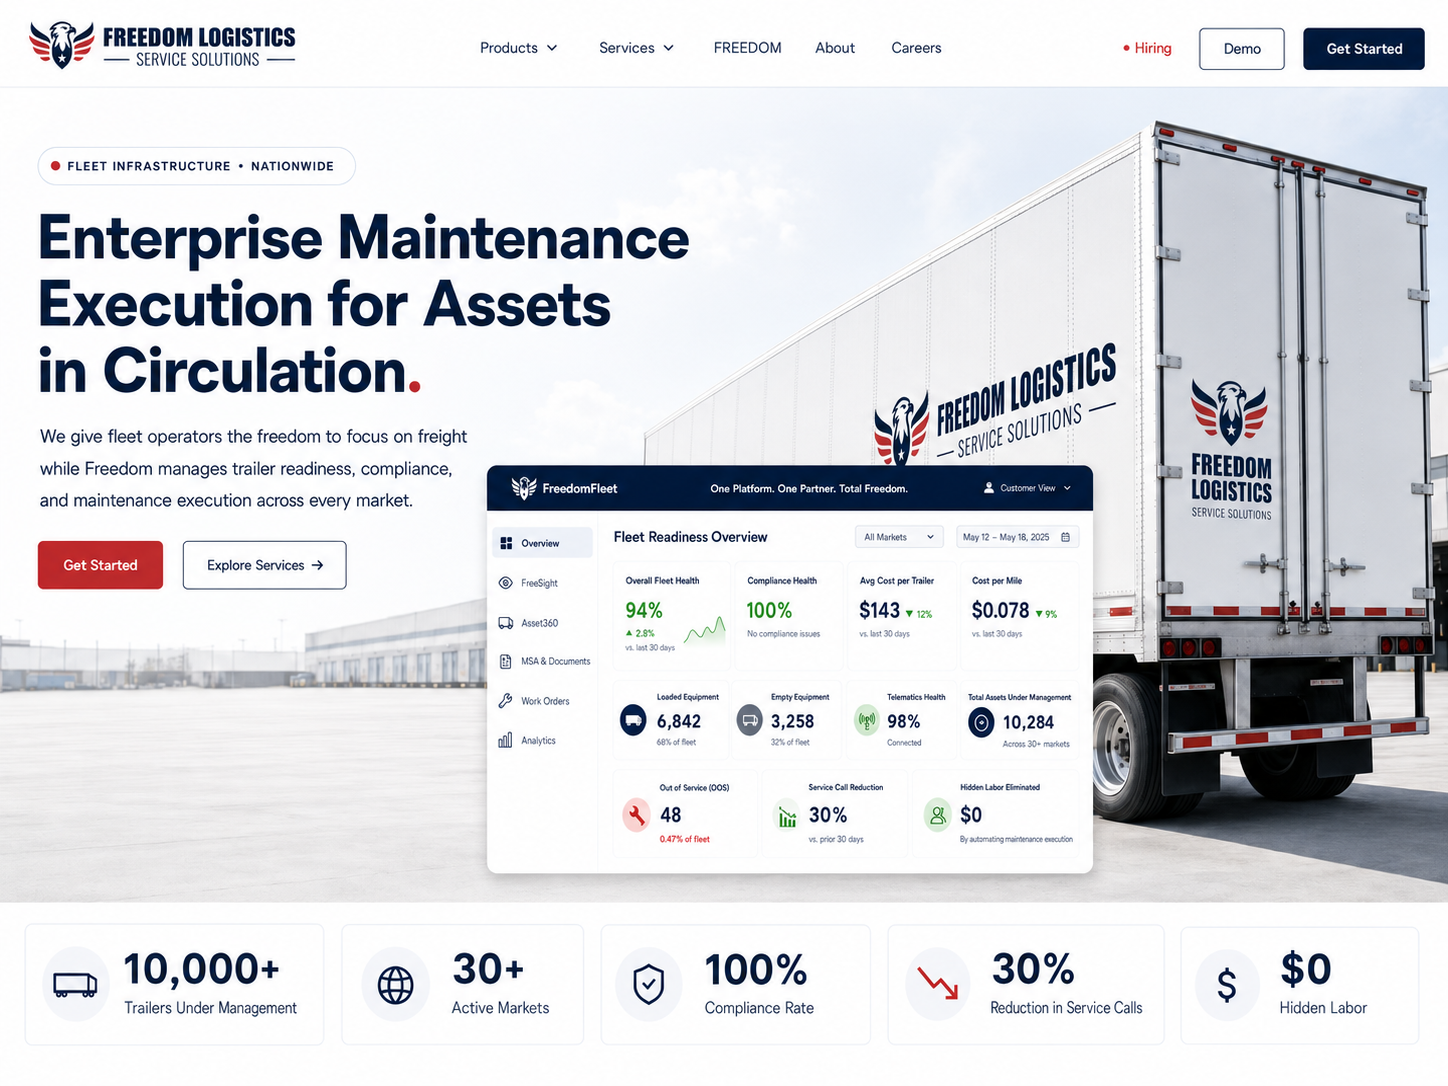
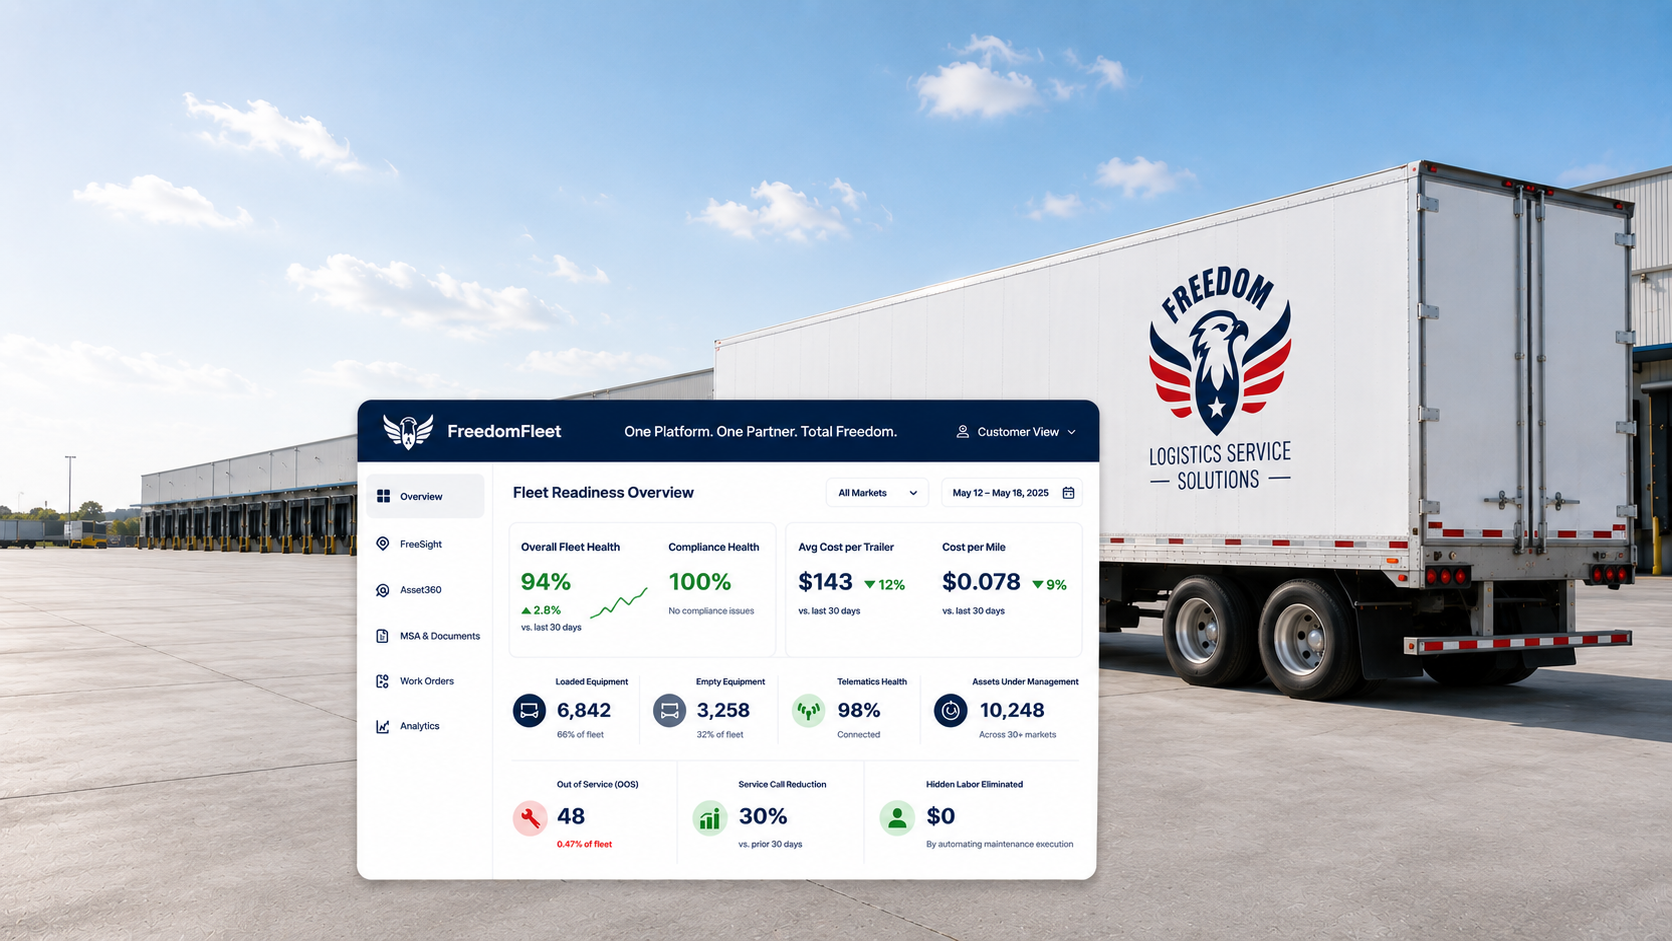
Integrate finalized hero composition as full-height right-bleed visual

diff --git a/css/styles.css b/css/styles.css
@@ -141,15 +141,21 @@ img, svg { display: block; max-width: 100%; }
   position: relative; overflow: hidden;
   background: linear-gradient(180deg, #FFFFFF 0%, #F3F7FC 100%);
   border-bottom: 1px solid var(--border);
+  min-height: 600px; display: flex; align-items: center;
 }
-.hero::before {                               /* soft brand glow, not an illustration */
+.hero::before {                               /* soft brand glow */
   content: ""; position: absolute; top: -140px; right: -120px; width: 520px; height: 520px;
-  background: radial-gradient(circle, rgba(13,43,94,.07), rgba(13,43,94,0) 70%); pointer-events: none;
+  background: radial-gradient(circle, rgba(13,43,94,.06), rgba(13,43,94,0) 70%); pointer-events: none; z-index: 0;
+}
+.hero::after {                                /* left to right white blend so the image fades into the page */
+  content: ""; position: absolute; inset: 0; z-index: 1; pointer-events: none;
+  background: linear-gradient(90deg, #FFFFFF 0%, rgba(255,255,255,.94) 24%, rgba(255,255,255,0) 56%);
 }
 .hero-inner {
-  position: relative; z-index: 1; max-width: var(--maxw); margin: 0 auto;
-  padding: 128px 24px 120px; display: grid; grid-template-columns: 1fr 1.1fr; gap: 60px; align-items: center;
+  position: relative; z-index: 2; width: 100%; max-width: var(--maxw); margin: 0 auto;
+  padding: 48px 24px;
 }
+.hero-copy { max-width: 540px; }
 .eyebrow {
   display: inline-flex; align-items: center; gap: 8px;
   font-size: 12px; font-weight: 700; letter-spacing: .08em; text-transform: uppercase;
@@ -161,26 +167,17 @@ img, svg { display: block; max-width: 100%; }
 .hero .lead { font-size: 18.5px; color: var(--body); max-width: 540px; margin-bottom: 34px; }
 .hero-cta { display: flex; gap: 12px; flex-wrap: wrap; }
 
-/* ---------- Hero portal dashboard (premium SaaS overlay on fleet-yard image) ---------- */
-.hero-visual { position: relative; }
-/* Layered hero visual: clean fleet-yard/trailer background + HTML dashboard overlay. */
-.hero-stage {
-  position: relative; border-radius: 22px; overflow: hidden;
-  background-image:
-    linear-gradient(180deg, rgba(11,18,32,.22) 0%, rgba(11,18,32,.04) 24%, rgba(255,255,255,0) 42%),
-    url('../assets/hero/fleet-yard-trailer.png');
-  background-size: cover; background-position: center 30%;
-  box-shadow: var(--shadow-lg); border: 1px solid rgba(255,255,255,.6);
-  padding: 150px 18px 18px;
+/* ---------- Hero visual: full-height, right-bleeding, integrated (no card) ---------- */
+.hero-visual {
+  position: absolute; top: 0; right: 0; bottom: 0; width: 70%; z-index: 0;
+  display: flex; align-items: center; justify-content: flex-end;
 }
-.stage-chip {
-  position: absolute; top: 16px; left: 18px; z-index: 2;
-  display: inline-flex; align-items: center; gap: 7px;
-  background: rgba(255,255,255,.94); border: 1px solid rgba(255,255,255,.7);
-  color: var(--ink); font-size: 11.5px; font-weight: 600; padding: 6px 12px; border-radius: 20px;
-  box-shadow: 0 6px 18px rgba(11,18,32,.22);
+.hero-composition {
+  display: block; width: 100%; height: 100%;
+  object-fit: contain;          /* keep aspect — never crops dashboard/trailer/yard */
+  object-position: right center;
+  border: none; box-shadow: none; border-radius: 0;
 }
-.stage-chip .dot { width: 7px; height: 7px; border-radius: 50%; background: var(--green); }
 .portal-card {
   position: relative; z-index: 1;
   background: #fff; border: 1px solid var(--border); border-radius: 18px;
@@ -306,8 +303,12 @@ img, svg { display: block; max-width: 100%; }
 
 /* ---------- Mobile ---------- */
 @media (max-width: 980px) {
-  .hero-inner { grid-template-columns: 1fr; gap: 40px; padding: 96px 24px 80px; }
-  .hero-stage { padding: 120px 14px 14px; }
+  .hero { min-height: auto; display: block; }
+  .hero-inner { padding: 88px 24px 64px; }
+  .hero-copy { max-width: none; }
+  .hero-visual { position: static; width: 100%; margin-top: 18px; }
+  .hero-composition { height: auto; }
+  .hero::after { display: none; }
   .stats-grid { grid-template-columns: repeat(2, 1fr); }
   .stat:nth-child(2n) { border-right: none; }
   .stat { border-bottom: 1px solid var(--border); }

diff --git a/index.html b/index.html
@@ -111,43 +111,8 @@
       </div>
 
       <div class="hero-visual">
-        <div class="hero-stage">
-          <span class="stage-chip"><span class="dot"></span>Live Fleet Operations · Nationwide</span>
-          <div class="portal-card" role="img" aria-label="FreedomFleet Fleet Readiness Overview dashboard">
-            <div class="portal-head">
-              <span class="dot-row"><i></i><i></i><i></i></span>
-              <span class="portal-title">FreedomFleet · Fleet Readiness Overview</span>
-              <span class="portal-live"><span class="pulse"></span>Live</span>
-            </div>
-            <div class="portal-body">
-              <div class="gauge-row">
-                <div class="gauge">
-                  <div class="ring" style="--p:96%"><b>96%</b></div>
-                  <div><div class="g-val">Overall Fleet Health</div><div class="g-sub">Healthy</div></div>
-                </div>
-                <div class="gauge">
-                  <div class="ring green" style="--p:100%"><b>100%</b></div>
-                  <div><div class="g-val">Compliance Health</div><div class="g-sub">All units current</div></div>
-                </div>
-              </div>
-              <div class="split-row">
-                <div class="split-head"><span>Equipment Utilization</span><span>10,248 assets</span></div>
-                <div class="split-bar"><span class="loaded" style="width:68%"></span><span class="empty" style="width:32%"></span></div>
-                <div class="split-legend"><span><i class="sw-loaded"></i>Loaded Equipment 68%</span><span><i class="sw-empty"></i>Empty Equipment 32%</span></div>
-              </div>
-              <div class="metric-grid">
-                <div class="metric"><div class="m-val navy">10,248</div><div class="m-label">Assets Under Management</div></div>
-                <div class="metric"><div class="m-val">94%</div><div class="m-label">Telematics Health</div></div>
-                <div class="metric"><div class="m-val">138</div><div class="m-label">Out of Service</div></div>
-                <div class="metric"><div class="m-val">$1,240</div><div class="m-label">Avg Cost per Trailer</div></div>
-                <div class="metric"><div class="m-val">$0.068</div><div class="m-label">Cost per Mile</div></div>
-                <div class="metric"><div class="m-val green">30%</div><div class="m-label">Service Call Reduction</div></div>
-                <div class="metric wide"><div class="m-val green">$0</div><div class="m-label">Hidden Labor Eliminated</div></div>
-              </div>
-            </div>
-            <div class="portal-foot">One Platform. One Partner. Total Freedom.</div>
-          </div>
-        </div>
+        <img src="assets/hero/flss-hero-reference.png" class="hero-composition"
+             alt="FreedomFleet dashboard overlaid on a white dry van trailer in a light distribution-center fleet yard">
       </div>
     </div>
   </section>
